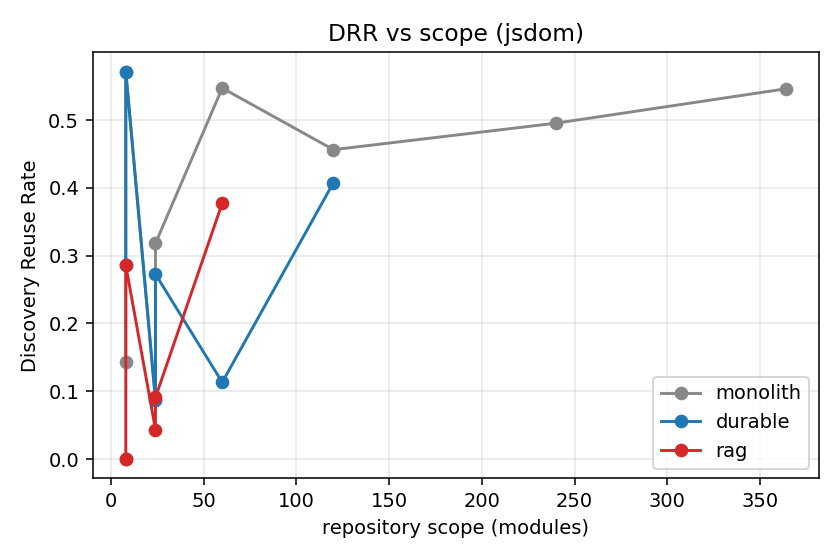
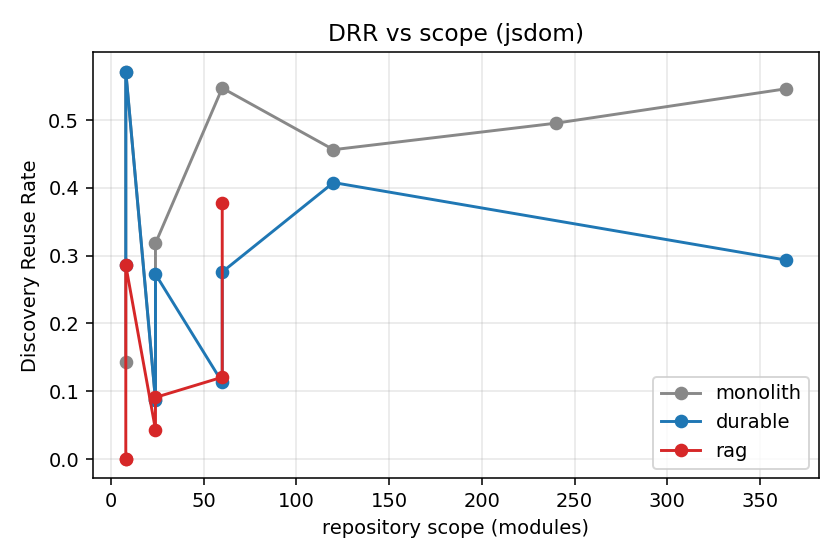
analyze: mark static-axis (typecheck) PASS under confounded runtime gate
Makes the capstone explicit in auto-tables: at 364 monolith FAILs
typecheck_strict while durable's typecheck is CLEAN (only jsdom-codegen-
confounded tests_api fails). Ingest durable-FULL into canonical.

diff --git a/harness/analyze.py b/harness/analyze.py
@@ -45,13 +45,22 @@ def _dedup_canonical(recs: list[dict]) -> list[dict]:
     return list(best.values())
 
 
+# Gates confounded by jsdom's webidl codegen at XL+ scope (see RESULTS threats).
+_CONFOUNDED = {"tests_api", "conversion_complete"}
+
+
 def _cell(rec: dict) -> str:
     if rec is None:
         return "—"
     ok = "PASS" if rec["oracle_ok"] else "FAIL"
     h = rec.get("escape_hatches")
     drr = rec.get("DRR")
-    extra = "" if rec["oracle_ok"] else f" ({','.join(rec.get('failed_gates') or [])})"
+    failed = rec.get("failed_gates") or []
+    extra = "" if rec["oracle_ok"] else f" ({','.join(failed)})"
+    # Primary static axis = typecheck_strict. Mark when it passes despite a
+    # confounded runtime-gate failure (the honest XL+ jsdom situation).
+    if not rec["oracle_ok"] and "typecheck_strict" not in failed and set(failed) <= _CONFOUNDED:
+        extra += " — **typecheck CLEAN; runtime gate confounded**"
     return f"{ok} h={h} DRR={drr}{extra}"
 
 

diff --git a/results/tables.md b/results/tables.md
@@ -1,6 +1,6 @@
 # Tables (auto-generated by analyze.py)
 
-_n canonical records: 25; resumability runs: 1; follow-up runs: 0_
+_n canonical records: 28; resumability runs: 1; follow-up runs: 0_
 
 ## Outcome (hardened oracle)
 
@@ -10,9 +10,9 @@ _n canonical records: 25; resumability runs: 1; follow-up runs: 0_
 | jsdom-S | 8 | PASS h=0 DRR=0.5714 | PASS h=0 DRR=0.5714 | FAIL h=0 DRR=0.0 (typecheck_strict,conversion_complete) |
 | jsdom-M | 24 | PASS h=0 DRR=0.3182 | PASS h=0 DRR=0.2727 | FAIL h=0 DRR=0.0909 (typecheck_strict) |
 | jsdom-L | 60 | PASS h=0 DRR=0.5472 | PASS h=0 DRR=0.1132 | FAIL h=0 DRR=0.3774 (typecheck_strict,conversion_complete) |
-| jsdom-XL | 120 | PASS h=0 DRR=0.4563 | FAIL h=0 DRR=0.4078 (tests_api,conversion_complete) | — |
+| jsdom-XL | 120 | PASS h=0 DRR=0.4563 | FAIL h=0 DRR=0.4078 (tests_api,conversion_complete) — **typecheck CLEAN; runtime gate confounded** | — |
 | jsdom-XXL | 240 | PASS h=0 DRR=0.4954 | — | — |
-| jsdom | 364 | FAIL h=0 DRR=0.5461 (typecheck_strict) | — | — |
+| jsdom | 364 | FAIL h=0 DRR=0.5461 (typecheck_strict) | FAIL h=0 DRR=0.2935 (tests_api) — **typecheck CLEAN; runtime gate confounded** | — |
 | jsdom-S | 8 | PASS h=0 DRR=0.1667 | PASS h=0 DRR=0.0 | — |
 
 ## Single-context scaling (breaking-point search)
@@ -37,10 +37,10 @@ _n canonical records: 25; resumability runs: 1; follow-up runs: 0_
 | express | 0.75 | 0.75 | 0.25 | 0.5 |
 | jsdom-S | 0.1429 | 0.2857 | 0.0 | 0.2857 |
 | jsdom-M | 0.087 | 0.087 | 0.0435 | 0.0435 |
-| jsdom-L | 0.5472 | 0.1132 | 0.3774 | -0.2642 |
+| jsdom-L | 0.5472 | 0.2759 | 0.1207 | 0.1552 |
 | jsdom-XL | 0.4563 | 0.4078 | — | — |
 | jsdom-XXL | 0.4954 | — | — | — |
-| jsdom | 0.5461 | — | — | — |
+| jsdom | 0.5461 | 0.2935 | — | — |
 | jsdom-S | 0.1667 | 0.0 | — | — |
 
 ## Failure taxonomy (mechanism)
@@ -52,15 +52,18 @@ _n canonical records: 25; resumability runs: 1; follow-up runs: 0_
 | jsdom-S | rag | typecheck_strict | — |
 | jsdom-M | rag | typecheck_strict | TS2339×1 |
 | jsdom-M | rag | typecheck_strict,tests_api | TS2687×1 |
+| jsdom-L | durable | typecheck_strict | TS2353×1 |
 | jsdom-L | rag | typecheck_strict,conversion_complete | TS2339×3, TS2451×3, TS2739×2, TS2345×1 |
+| jsdom-L | rag | typecheck_strict | TS2451×4, TS2393×1 |
 | jsdom-XL | durable | tests_api,conversion_complete | — |
 | jsdom | monolith | typecheck_strict | TS2322×8, TS2571×7, TS2339×1 |
+| jsdom | durable | tests_api | — |
 
 **Aggregate TS error codes across failures:**
 
 | code | meaning | count | arms |
 | --- | --- | --- | --- |
-| TS2451 | cannot redeclare block-scoped variable (cross-file conflict) | 10 | rag |
+| TS2451 | cannot redeclare block-scoped variable (cross-file conflict) | 14 | rag |
 | TS2322 | type not assignable | 8 | monolith |
 | TS2571 | object is of type 'unknown' (un-narrowed) | 7 | monolith |
 | TS2339 | property does not exist on type | 5 | monolith,rag |
@@ -69,8 +72,10 @@ _n canonical records: 25; resumability runs: 1; follow-up runs: 0_
 | TS2739 | type missing required properties | 2 | rag |
 | TS2430 | interface incorrectly extends interface | 1 | rag |
 | TS2687 | ? | 1 | rag |
+| TS2353 | ? | 1 | durable |
 | TS2300 | duplicate identifier | 1 | rag |
 | TS2551 | property does not exist (no near-match) | 1 | rag |
+| TS2393 | ? | 1 | rag |
 
 ## Resumability (H4): work surviving an interruption
 